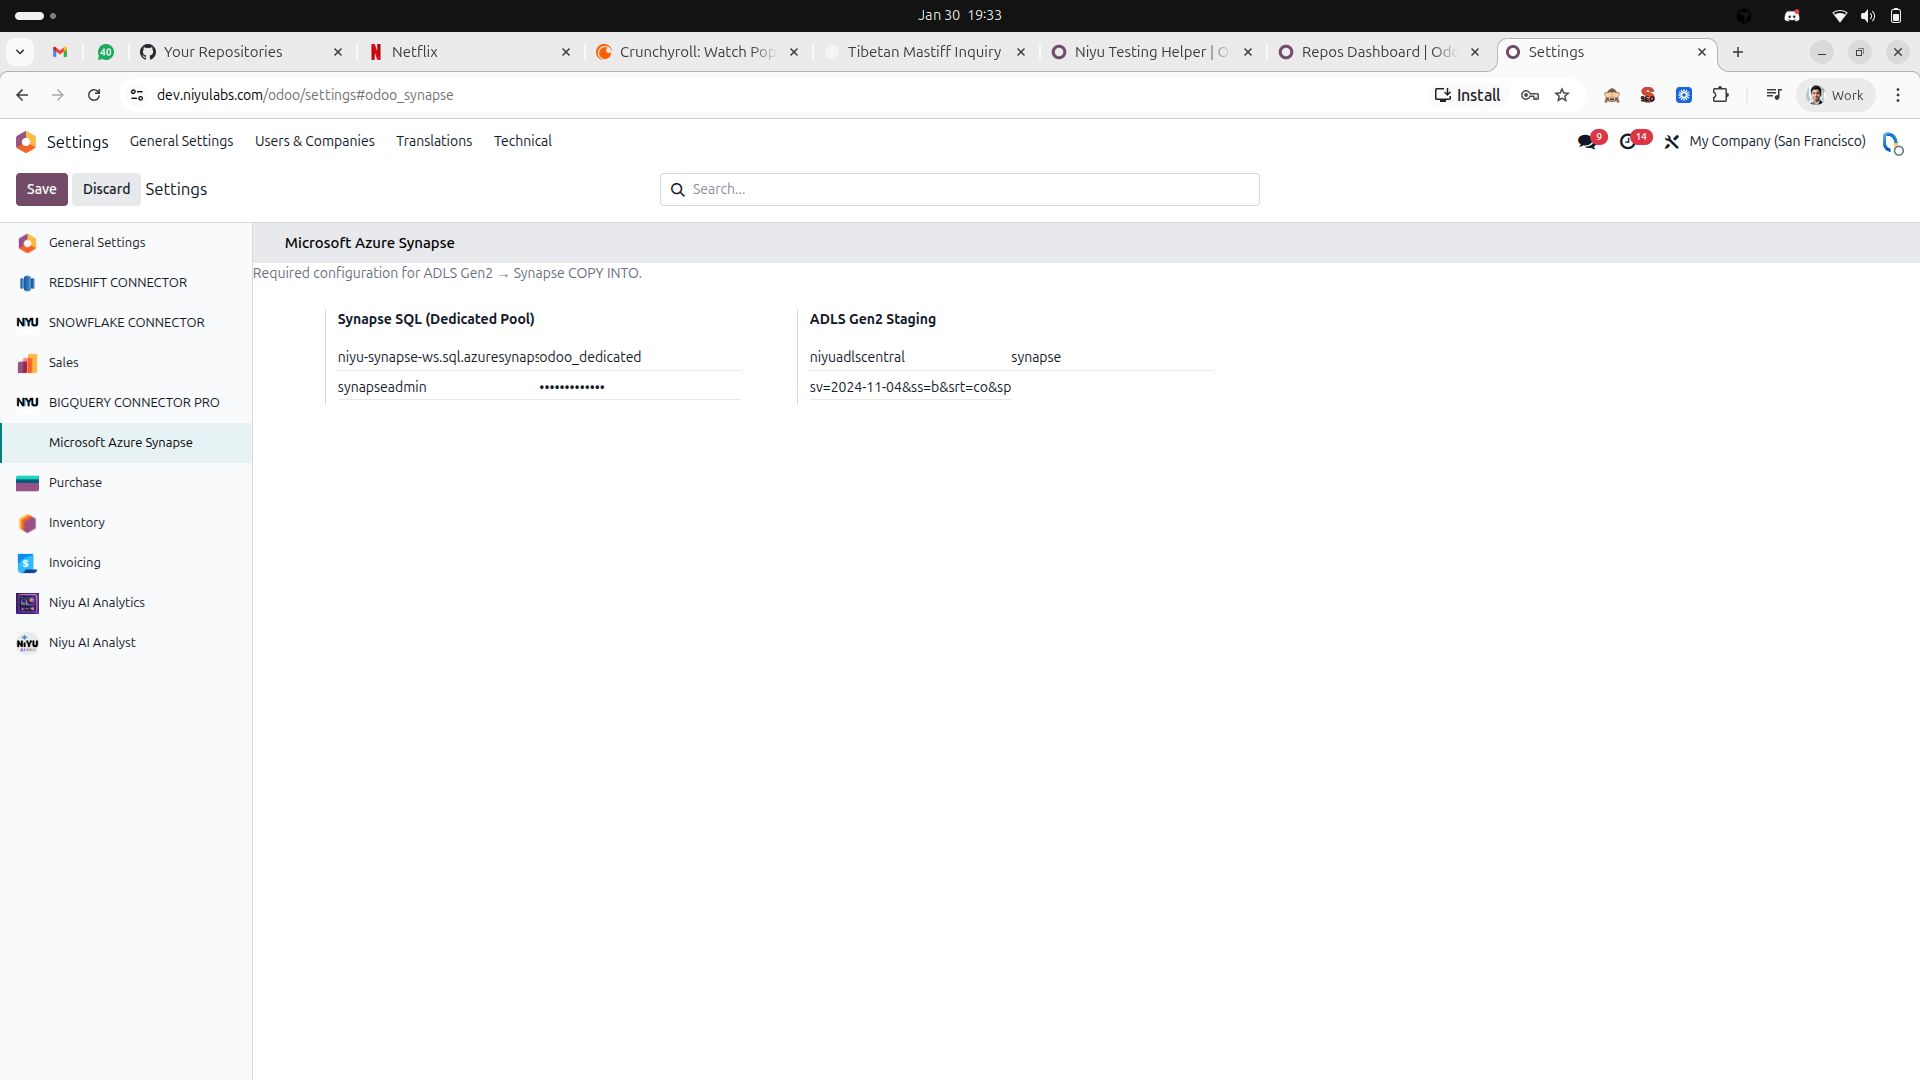
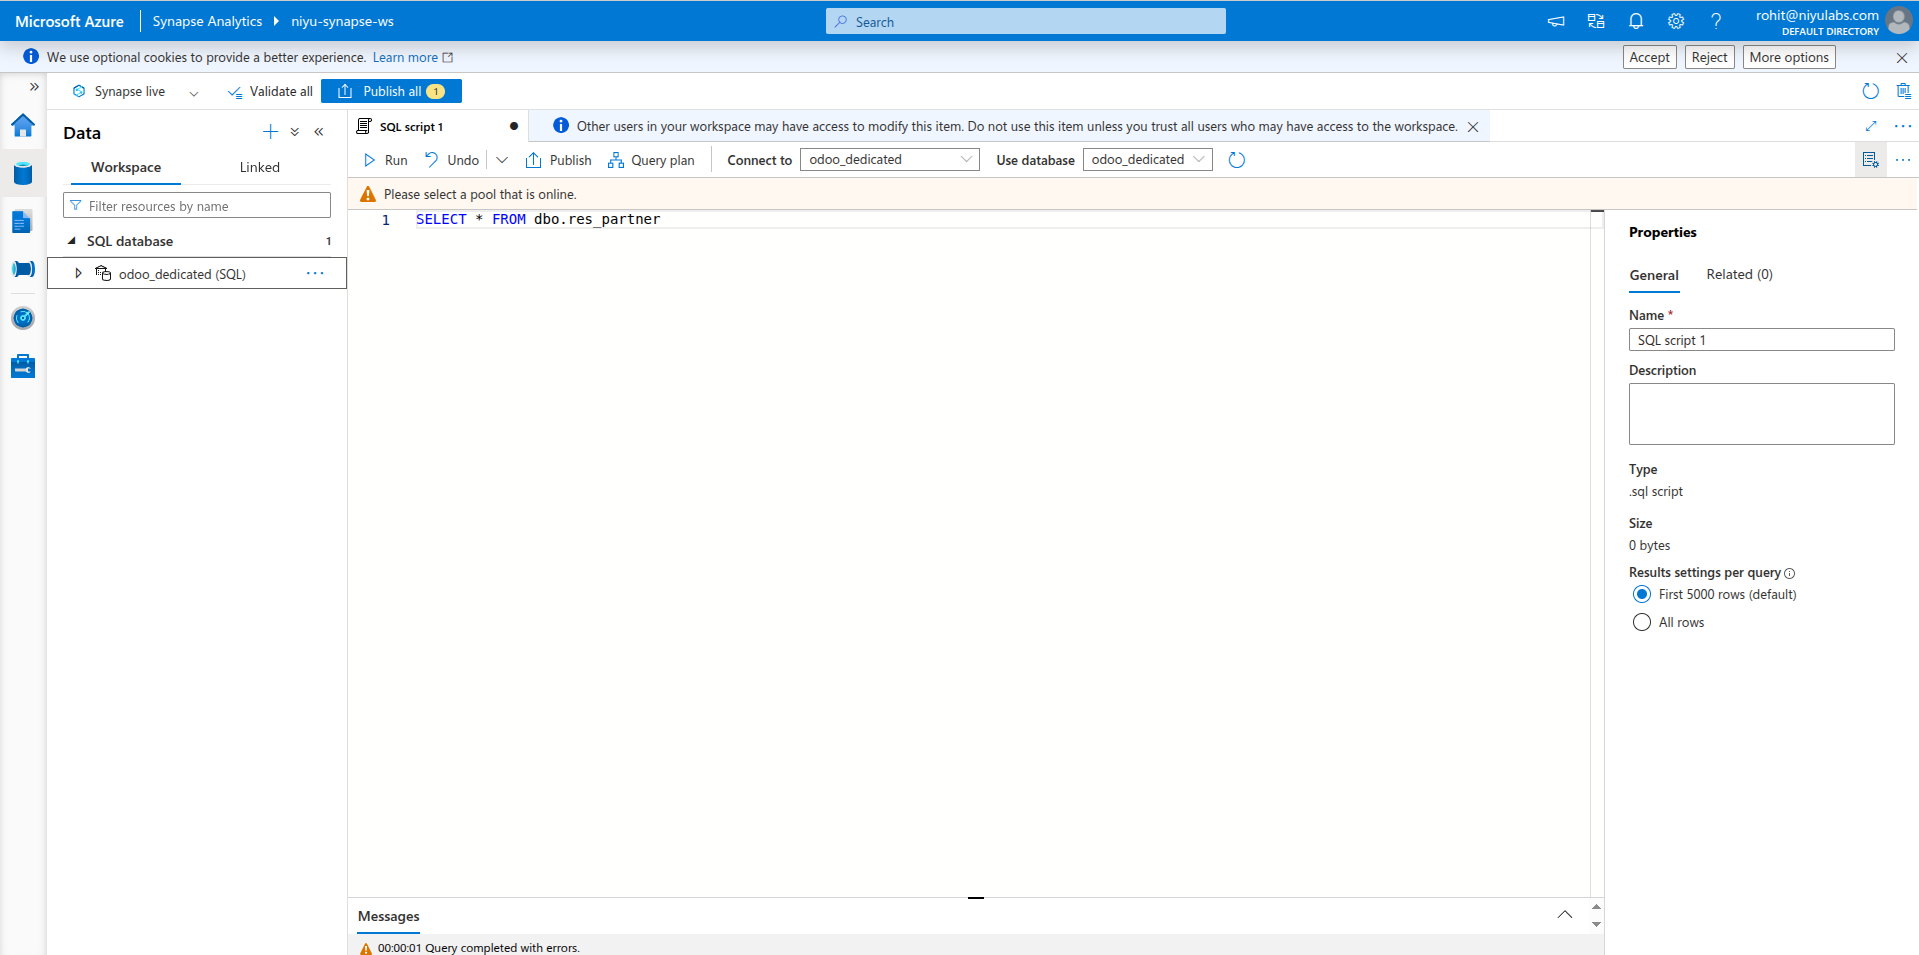
azure

diff --git a/jarvis/static/description/index.html b/jarvis/static/description/index.html
@@ -110,6 +110,7 @@
         <a href="#storage" style="text-decoration: none; color: #1e293b; font-weight: 600; font-size: 14px; padding: 6px 14px; border-radius: 8px;">Storage & SAS</a>
         <a href="#queries" style="text-decoration: none; color: #0078d4; font-weight: 700; font-size: 14px; padding: 6px 14px; border-radius: 8px; background: rgba(0,120,212,0.08);">Odoo Config</a>
         <a href="#networking" style="text-decoration: none; color: #1e293b; font-weight: 600; font-size: 14px; padding: 6px 14px; border-radius: 8px;">Security</a>
+        <a href="#visualize" style="text-decoration: none; color: #1e293b; font-weight: 600; font-size: 14px; padding: 6px 14px; border-radius: 8px;">Query Data</a>
         <a href="#incremental" style="text-decoration: none; color: #1e293b; font-weight: 600; font-size: 14px; padding: 6px 14px; border-radius: 8px;">Sync Logic</a>
         <a href="#troubleshoot" style="text-decoration: none; color: #dc2626; font-weight: 700; font-size: 14px; padding: 6px 14px; border-radius: 8px;">Troubleshoot</a>
       </div>
@@ -307,8 +308,10 @@
         </ul>
       </div>
 
-      <p style="font-weight: 700; color: #64748b; font-size: 14px; margin-bottom: 12px;">&#128247; Azure Synapse Overview</p>
-      <img src="./synapse_overview.png" alt="Azure Synapse Overview" style="width: 100%; border-radius: 16px; box-shadow: 0 20px 60px -20px rgba(0,0,0,0.2); border: 1px solid #e2e8f0;">
+      <p style="font-weight: 700; color: #64748b; font-size: 14px; margin-bottom: 12px;">&#128247; Synapse workspace overview — Essentials (Dedicated SQL endpoint, odoo_dedicated pool)</p>
+      <img src="./synapse_overview.png" alt="Azure Synapse Overview Essentials" style="width: 100%; border-radius: 16px; box-shadow: 0 20px 60px -20px rgba(0,0,0,0.2); border: 1px solid #e2e8f0; margin-bottom: 24px;">
+      <p style="font-weight: 700; color: #64748b; font-size: 14px; margin-bottom: 12px;">&#128247; Synapse Analytics workspace dashboard — Ingest, Explore, Visualize</p>
+      <img src="./synapse_workspace_dashboard.png" alt="Synapse Workspace Dashboard" style="width: 100%; border-radius: 16px; box-shadow: 0 20px 60px -20px rgba(0,0,0,0.2); border: 1px solid #e2e8f0;">
     </div>
   </section>
 
@@ -353,8 +356,14 @@
         </ul>
       </div>
 
-      <p style="font-weight: 700; color: #64748b; font-size: 14px; margin-bottom: 12px; text-align: center;">&#128247; Generating SAS Token in Azure Storage</p>
-      <img src="./storage_sas.png" alt="Storage SAS" style="width: 100%; border-radius: 16px; border: 1px solid #e2e8f0; box-shadow: 0 12px 40px -12px rgba(0,0,0,0.12);">
+      <p style="font-weight: 700; color: #64748b; font-size: 14px; margin-bottom: 12px;">&#128247; Create storage account — Basics (Resource group: rg-odoo-synapse)</p>
+      <img src="./azure_create_storage.png" alt="Create Storage Account" style="width: 100%; border-radius: 16px; border: 1px solid #e2e8f0; box-shadow: 0 12px 40px -12px rgba(0,0,0,0.12); margin-bottom: 24px;">
+      <p style="font-weight: 700; color: #64748b; font-size: 14px; margin-bottom: 12px;">&#128247; Storage center — Find your ADLS accounts (niyuadlscentral, niyusynapseadls)</p>
+      <img src="./azure_storage_center.png" alt="Storage Center Blob Storage" style="width: 100%; border-radius: 16px; border: 1px solid #e2e8f0; box-shadow: 0 12px 40px -12px rgba(0,0,0,0.12); margin-bottom: 24px;">
+      <p style="font-weight: 700; color: #64748b; font-size: 14px; margin-bottom: 12px;">&#128247; Storage account properties — Verify Hierarchical namespace: Enabled (ADLS Gen2)</p>
+      <img src="./azure_storage_properties.png" alt="Storage Account Properties" style="width: 100%; border-radius: 16px; border: 1px solid #e2e8f0; box-shadow: 0 12px 40px -12px rgba(0,0,0,0.12); margin-bottom: 24px;">
+      <p style="font-weight: 700; color: #64748b; font-size: 14px; margin-bottom: 12px;">&#128247; Generate SAS — Containers &#8594; right‑click container &#8594; Generate SAS</p>
+      <img src="./azure_generate_sas.png" alt="Generate SAS Token" style="width: 100%; border-radius: 16px; border: 1px solid #e2e8f0; box-shadow: 0 12px 40px -12px rgba(0,0,0,0.12);">
 
       <div style="margin-top: 40px; padding: 28px 36px; background: #f8fafc; border: 1px solid #e2e8f0; border-radius: 20px;">
         <h6 style="font-weight: 800; margin-bottom: 16px;">Common settings</h6>
@@ -406,8 +415,7 @@
         </ul>
       </div>
 
-      <p style="font-weight: 700; color: #64748b; font-size: 14px; margin-bottom: 12px;">&#128247; Synapse Networking Page</p>
-      <img src="./networking_firewall.png" alt="Networking Firewall" style="width: 100%; border-radius: 16px; box-shadow: 0 20px 60px -20px rgba(0,0,0,0.12); border: 1px solid #e2e8f0;">
+      <p style="font-size: 13px; color: #94a3b8;">Synapse Workspace &#8594; Networking &#8594; Add client IP for your Odoo server</p>
     </div>
   </section>
 
@@ -558,6 +566,21 @@
           </div>
         </div>
       </div>
+    </div>
+  </section>
+
+  <!-- ═══════════════════════════════════════════════════════════════ -->
+  <!-- QUERY IN SYNAPSE STUDIO -->
+  <!-- ═══════════════════════════════════════════════════════════════ -->
+  <section id="visualize" style="padding: 80px 20px; background: #f8fafc; border-top: 1px solid #e2e8f0;">
+    <div class="container" style="max-width: 900px;">
+      <h2 style="font-size: 2rem; font-weight: 900; margin-bottom: 12px;">Query Your Odoo Data in Synapse Studio</h2>
+      <p style="color: #64748b; font-size: 1.1rem; margin-bottom: 32px;">Once data is synced, open Synapse Studio &#8594; Data &#8594; SQL database (odoo_dedicated) &#8594; New SQL script. Run queries like <code>SELECT * FROM dbo.res_partner</code>.</p>
+      <div style="background: #fffbeb; border: 1px solid #fcd34d; border-radius: 16px; padding: 20px 24px; margin-bottom: 24px;">
+        <strong style="color: #92400e;">&#9888; Ensure your Dedicated SQL pool is Online</strong> — if paused, Odoo cannot write and queries will fail. Resume from Azure Portal.
+      </div>
+      <p style="font-weight: 700; color: #64748b; font-size: 14px; margin-bottom: 12px;">&#128247; Synapse Studio SQL script — Connect to odoo_dedicated, query Odoo tables</p>
+      <img src="./synapse_sql_query.png" alt="Synapse Studio SQL Query" style="width: 100%; border-radius: 16px; box-shadow: 0 20px 60px -20px rgba(0,0,0,0.15); border: 1px solid #e2e8f0;">
     </div>
   </section>
 
